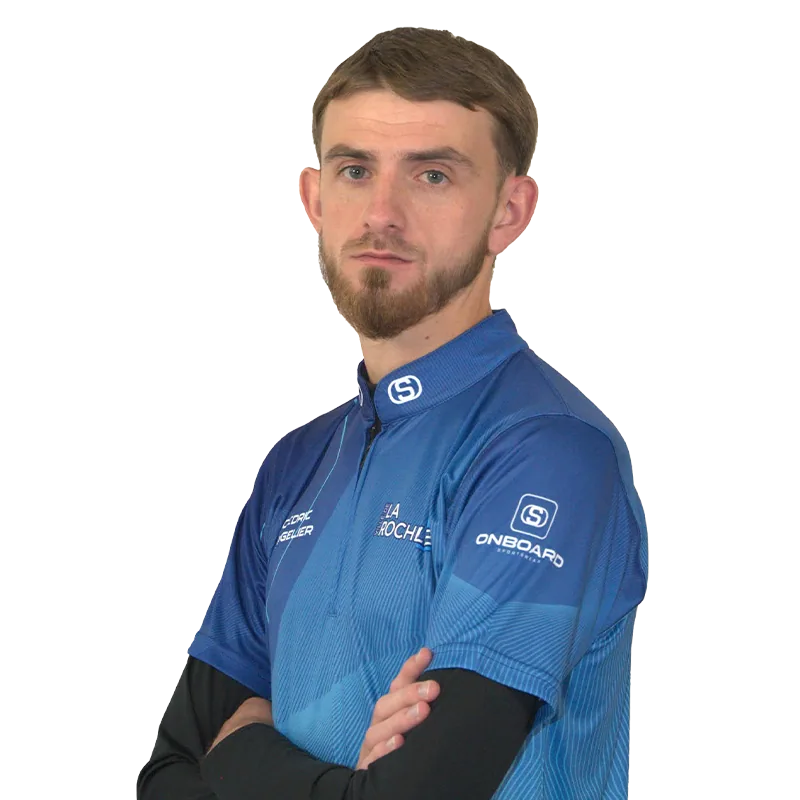
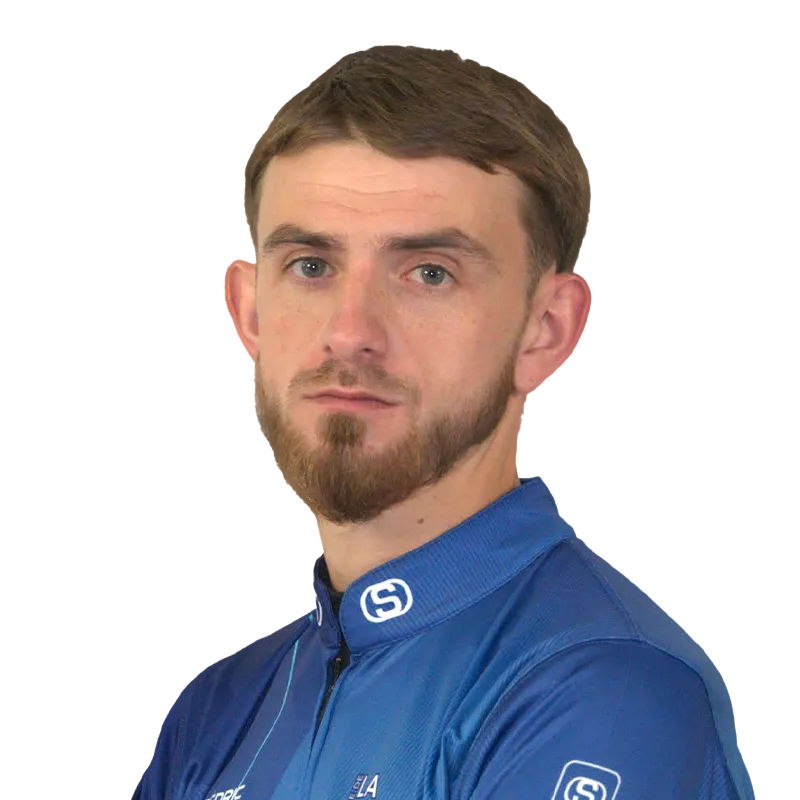
Billard: nouvelle photo Cédric Angelier (Masters) + règle placement photo joueur
- Photo active dans MASTERS/2026-2027 (invité Mixte mais historique Masters :
  le pipeline donne priorité MASTERS, une photo en MIXTE serait masquée).
- Cutout cedric-angelier.png régénéré via npm run assets.
- CLAUDE.md : règle "convention catégorie" (archive par catégorie d'origine
  vs placement dépôt en catégorie de plus haute priorité).

diff --git a/CLAUDE.md b/CLAUDE.md
@@ -24,3 +24,8 @@ La mémoire interne de Claude Code (`~/.claude/…/memory/`) **ne se synchronise
 ## Repères techniques
 - **Billard = 9 compétitions Blackball** (Masters, Femmes, Mixte, Espoir, Junior, Vétéran, Prestige Vétéran, Para fauteuil, Para malvoyants), fiches silotées par catégorie reliées par `src/lib/crossComp.ts`.
 - **Auto-refresh** 2×/jour (`.github/workflows/refresh-data.yml` → `scripts/import-blackball.mjs`) : réimporte les scores de la saison en cours depuis Cuescore pour les 9 compétitions. Détails et recette d'ajout de catégorie : voir [`PASSATION-PC1-PC2.md`](PASSATION-PC1-PC2.md).
+
+### 📸 Photos joueurs — convention catégorie (invités Masters)
+Un joueur du **Mixte National invité au Masters** n'est PAS un joueur qualifié Masters. Le site le détecte **tout seul** depuis Cuescore (`import-blackball.mjs`, `hasInvites: true` → champ `invite: true` + rang Mixte affiché) — **aucun nom de dossier n'entre en jeu** pour ça.
+- **Archive perso `D:\BLACKBALL\joueurs`** (NON lue par le site, purement organisationnelle) : nommer par **catégorie d'origine** → `mixte - prenom nom` pour un invité, et ne passer à `masters - …` qu'à la **vraie qualification** (nouvelle saison). Le `parcours-AAAA-AAAA.txt` conservé par saison sert de **base de comparaison** avant/après qualification (il n'est lu par aucun script aujourd'hui).
+- **Placement de la photo DANS LE DÉPÔT** (`public/billard/blackball/<CAT>/<saison>/`) — **≠ archive** : le pipeline `npm run assets` (`build-player-assets.mjs`, PASSE 2) donne **priorité à MASTERS** (ordre : MASTERS > FEMMES > MIXTE > PARA > ESPOIR > JUNIOR > VETERAN > PRESTIGE) et choisit la saison la plus récente **DANS** la catégorie gagnante (sauf joueur listé dans `players-roster.json` → récence globale). Conséquence : pour un joueur **ayant un historique Masters**, sa **photo active doit être dans `MASTERS/<saison récente>`** ; une photo rangée dans `MIXTE/` y serait **masquée** par n'importe quelle photo Masters (plus ancienne) → la nouvelle photo ne s'afficherait jamais. Règle pratique : **headshot actif = dossier de la catégorie de plus haute priorité où le joueur participe cette saison** (donc MASTERS pour un invité). Après dépôt : `npm run assets`, vérifier `public/billard/cutouts/<slug>.png`.

diff --git a/ETAT-DU-PROJET.md b/ETAT-DU-PROJET.md
@@ -5,10 +5,19 @@
 | | |
 |---|---|
 | **Dernière mise à jour** | 2026-11-23 (heure de Paris) |
-| **Machine** | PC1 |
-| **Dernier push** | Billard : invités Masters CALCULÉS automatiquement (top 4 du Mixte National de l'étape précédente) |
+| **Machine** | PC2 |
+| **Dernier push** | Photo joueur Cédric Angelier (Masters) + règle « placement photo » dans CLAUDE.md |
 | **État déploiement** | poussé sur `main` → GitHub Actions « Build & Deploy OVH » |
-| **Build local** | OK (5 687 pages, exit 0) |
+| **Build local** | OK (exit 0, cutout régénéré via `npm run assets`) |
+
+## 🟢 Mise à jour du 23/11/2026 — nouvelle photo Cédric Angelier + règle de placement
+Nouvelle photo de **Cédric Angelier** (joueur **Mixte National invité au Masters**) intégrée via `npm run assets`.
+
+**Point technique confirmé (important)** : le pipeline `build-player-assets.mjs` (PASSE 2) donne **priorité à la catégorie MASTERS** et ne résout la récence qu'**à l'intérieur** de la catégorie gagnante. Comme Cédric garde un historique `MASTERS/2024-2025`, une photo rangée dans `MIXTE/` serait **masquée** par l'ancienne photo Masters et ne s'afficherait jamais. → Sa photo active **doit** rester dans `MASTERS/2026-2027`. Vérifié : cutout `public/billard/cutouts/cedric-angelier.png` reflète bien la nouvelle photo.
+
+**Règle notée dans `CLAUDE.md`** (section « 📸 Photos joueurs — convention catégorie ») :
+- **Archive perso `D:\BLACKBALL\joueurs`** (non lue par le site) : nommer par **catégorie d'origine** (`mixte - prenom nom` pour un invité), promotion en `masters - …` seulement à la **vraie qualification**.
+- **Photo DANS LE DÉPÔT** : **catégorie de plus haute priorité** où le joueur participe cette saison (donc **MASTERS** pour un invité à historique Masters), sinon masquée par le pipeline.
 
 ## 🟢 23/11/2026 (2) — Invités Masters automatisés (feeder Mixte National)
 Les 4 invités (wildcards) de chaque étape du Blackball Master étaient saisis **à la main** (`mastersGuests2627`). Règle sportive identifiée et vérifiée : **invités Masters TN(n) = TOP 4 du Mixte National TN(n-1)**. Contrôle : top 4 du Mixte TN1 Fumel (Lechat, Bounif, Robert, Abdou) = exactement les invités du Masters TN2. ✔
